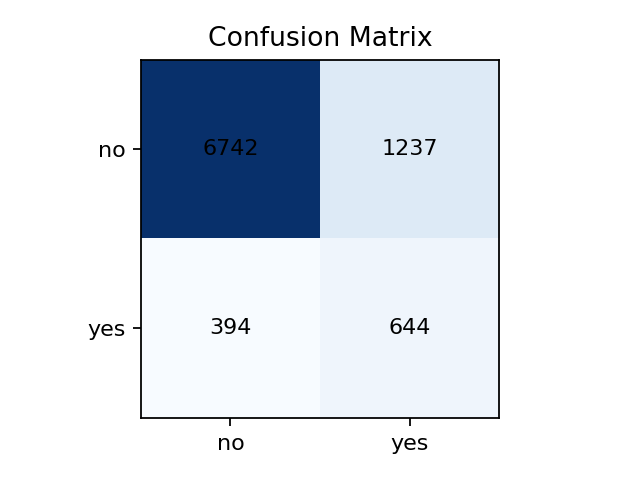
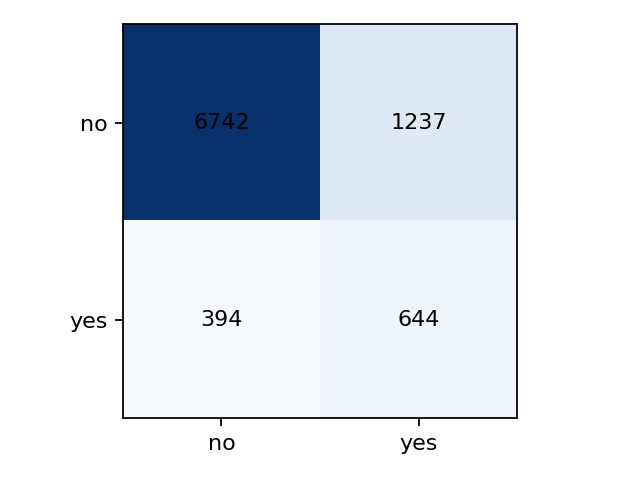
Add top features analysis

diff --git a/train.py b/train.py
@@ -1,16 +1,14 @@
 from __future__ import annotations
 
 import argparse
+import math
 import json
 from datetime import datetime, timezone
 from pathlib import Path
 from typing import Dict, List
 
 from pyspark.ml import Pipeline
-try:
-    from pyspark.ml.attribute import AttributeGroup
-except ModuleNotFoundError:  # pyspark may not expose AttributeGroup
-    AttributeGroup = None
+AttributeGroup = None
 from pyspark.ml.classification import (
     DecisionTreeClassificationModel,
     GBTClassificationModel,
@@ -43,9 +41,18 @@ def build_preprocess_stages(cat_cols: List[str], num_cols: List[str]) -> List:
         stages.append(OneHotEncoder(inputCols=[idx], outputCols=[ohe], handleInvalid="keep"))
         ohe_cols.append(ohe)
 
-    stages.append(VectorAssembler(inputCols=num_cols, outputCol="num_vec"))
-    stages.append(StandardScaler(inputCol="num_vec", outputCol="num_scaled", withMean=False, withStd=True))
-    stages.append(VectorAssembler(inputCols=ohe_cols + ["num_scaled"], outputCol="features"))
+    num_scaled_col = None
+    if num_cols:
+        stages.append(VectorAssembler(inputCols=num_cols, outputCol="num_vec"))
+        stages.append(
+            StandardScaler(inputCol="num_vec", outputCol="num_scaled", withMean=False, withStd=True)
+        )
+        num_scaled_col = "num_scaled"
+
+    feature_inputs = ohe_cols + ([num_scaled_col] if num_scaled_col else [])
+    if not feature_inputs:
+        raise RuntimeError("No features selected for pipeline.")
+    stages.append(VectorAssembler(inputCols=feature_inputs, outputCol="features"))
     return stages
 
 
@@ -89,7 +96,6 @@ def plot_confusion_matrix(pred_df: DataFrame, report_dir: str) -> None:
     cm = confusion_matrix(pred_df)
     plt.figure(figsize=(4, 3))
     plt.imshow(cm, cmap="Blues")
-    plt.title("Confusion Matrix")
     plt.xticks([0, 1], ["no", "yes"])
     plt.yticks([0, 1], ["no", "yes"])
     for i in range(2):
@@ -214,6 +220,56 @@ def _map_dim_to_base(dim_name: str, cat_cols: List[str], num_cols: List[str]) ->
     return None
 
 
+def _aggregate_base_importances(
+    pipeline_model, df: DataFrame, cat_cols: List[str], num_cols: List[str]
+) -> Dict[str, float]:
+    model = pipeline_model.stages[-1]
+    if isinstance(
+        model,
+        (
+            RandomForestClassificationModel,
+            GBTClassificationModel,
+            DecisionTreeClassificationModel,
+        ),
+    ):
+        importances = model.featureImportances.toArray()
+    elif isinstance(model, LogisticRegressionModel):
+        importances = [abs(float(v)) for v in model.coefficients.toArray()]
+    else:
+        return {}
+
+    transformed = pipeline_model.transform(df)
+    dim_names = _get_feature_names_from_metadata(transformed, "features", len(importances))
+    fallback_bases = _build_base_feature_names(
+        transformed, pipeline_model, cat_cols, num_cols, len(importances)
+    )
+
+    grouped: Dict[str, float] = {}
+    for i, importance in enumerate(importances):
+        dim_name = dim_names[i]
+        base = _map_dim_to_base(dim_name, cat_cols, num_cols)
+        if base is None and i < len(fallback_bases):
+            base = fallback_bases[i]
+        if base is None:
+            base = dim_name
+        grouped[base] = grouped.get(base, 0.0) + float(importance)
+
+    for col in cat_cols + num_cols:
+        grouped.setdefault(col, 0.0)
+    return grouped
+
+
+def _rank_base_features(
+    grouped_importances: Dict[str, float], cat_cols: List[str], num_cols: List[str]
+) -> List[str]:
+    base_features = cat_cols + num_cols
+    index = {name: i for i, name in enumerate(base_features)}
+    return sorted(
+        base_features,
+        key=lambda name: (-grouped_importances.get(name, 0.0), index[name]),
+    )
+
+
 def plot_feature_importance(
     pipeline_model, df: DataFrame, cat_cols: List[str], num_cols: List[str], report_dir: str
 ) -> bool:
@@ -255,7 +311,6 @@ def plot_feature_importance(
         plt.figure(figsize=(7, 5))
         plt.barh(pdf["feature"], pdf["importance"], color="#54A24B")
         plt.gca().invert_yaxis()
-        plt.title("Top Feature Importances")
         plt.xlabel("importance")
         save_fig(Path(report_dir) / "feature_importance.png")
         return True
@@ -442,6 +497,69 @@ def main() -> None:
     if not plot_feature_importance(best_model, train, cat_cols, num_cols, args.report_dir):
         print("Feature importance skipped (final model is not tree-based).")
 
+    def build_ablation_estimator():
+        fitted_model = best_model.stages[-1]
+        if best_result["name"] == "LogisticRegression":
+            lr = LogisticRegression(labelCol="label", featuresCol="features")
+            lr = lr.setParams(
+                maxIter=fitted_model.getOrDefault(fitted_model.maxIter),
+                regParam=fitted_model.getOrDefault(fitted_model.regParam),
+                elasticNetParam=fitted_model.getOrDefault(fitted_model.elasticNetParam),
+            )
+            return with_weight_col(lr)
+        if best_result["name"] == "RandomForest":
+            rf = RandomForestClassifier(
+                labelCol="label", featuresCol="features", seed=args.seed
+            ).setParams(
+                numTrees=fitted_model.getOrDefault(fitted_model.numTrees),
+                maxDepth=fitted_model.getOrDefault(fitted_model.maxDepth),
+            )
+            return with_weight_col(rf)
+        if best_result["name"] == "GBT":
+            gbt = GBTClassifier(
+                labelCol="label", featuresCol="features", seed=args.seed
+            ).setParams(
+                maxDepth=fitted_model.getOrDefault(fitted_model.maxDepth),
+                maxIter=fitted_model.getOrDefault(fitted_model.maxIter),
+                stepSize=fitted_model.getOrDefault(fitted_model.stepSize),
+            )
+            return with_weight_col(gbt)
+        raise RuntimeError(f"Unsupported model for ablation: {best_result['name']}")
+
+    base_importances = _aggregate_base_importances(best_model, train, cat_cols, num_cols)
+    ordered_features = _rank_base_features(base_importances, cat_cols, num_cols)
+    total_features = len(ordered_features)
+    ablation_rows = []
+    for frac in [1.0, 0.8, 0.6]:
+        k = int(math.ceil(frac * total_features))
+        selected = set(ordered_features[:k])
+        sel_cat = [c for c in cat_cols if c in selected]
+        sel_num = [c for c in num_cols if c in selected]
+        ablation_model = build_ablation_estimator()
+        pipeline = build_pipeline(ablation_model, sel_cat, sel_num)
+        fitted = pipeline.fit(train)
+        preds = fitted.transform(test)
+        metrics = evaluate_predictions(preds)
+        ablation_rows.append(
+            {
+                "fraction": frac,
+                "num_features": len(selected),
+                "accuracy": metrics["accuracy"],
+                "precision": metrics["precision"],
+                "recall": metrics["recall"],
+                "f1": metrics["f1"],
+                "auc": metrics["auc"],
+                "model_name": best_result["name"],
+                "tuned": best_result["tuned"],
+            }
+        )
+        print(f"Ablation {frac:.1f}: f1={metrics['f1']:.4f} auc={metrics['auc']:.4f}")
+
+    import pandas as pd
+
+    ablation_df = pd.DataFrame(ablation_rows)
+    save_table(ablation_df, Path(args.report_dir) / "feature_ablation.csv")
+
     metrics_rows = []
     for res in results:
         row = {
@@ -450,8 +568,6 @@ def main() -> None:
             **res["metrics"],
         }
         metrics_rows.append(row)
-
-    import pandas as pd
 
     metrics_df = pd.DataFrame(metrics_rows)
     save_table(metrics_df, Path(args.report_dir) / "metrics_table.csv")

diff --git a/preprocess.py b/preprocess.py
@@ -166,7 +166,6 @@ def plot_class_balance(df: DataFrame, report_dir: str) -> None:
 
     plt.figure(figsize=(4, 3))
     plt.bar(counts["label_name"], counts["count"], color="#4C78A8")
-    plt.title("Class Balance")
     plt.xlabel("y")
     plt.ylabel("count")
     save_fig(Path(report_dir) / "class_balance.png")
@@ -195,7 +194,6 @@ def plot_histograms(df: DataFrame, report_dir: str, columns: Iterable[str]) -> N
 
         plt.figure(figsize=(5, 3.5))
         plt.bar(pdf["center"], pdf["count"], width=width * 0.9, color="#F58518")
-        plt.title(f"Histogram: {col}")
         plt.xlabel(col)
         plt.ylabel("count")
         save_fig(Path(report_dir) / f"hist_{col}.png")
@@ -217,7 +215,11 @@ def plot_corr_heatmap(df: DataFrame, report_dir: str, columns: List[str]) -> Non
     plt.colorbar()
     plt.xticks(range(len(cols)), cols, rotation=45, ha="right")
     plt.yticks(range(len(cols)), cols)
-    plt.title("Numeric Correlation")
+    for i in range(len(cols)):
+        for j in range(len(cols)):
+            val = corr[i, j]
+            color = "white" if abs(val) > 0.5 else "black"
+            plt.text(j, i, format(val, ".2g"), ha="center", va="center", color=color)
     save_fig(Path(report_dir) / "corr_heatmap.png")
 
 
